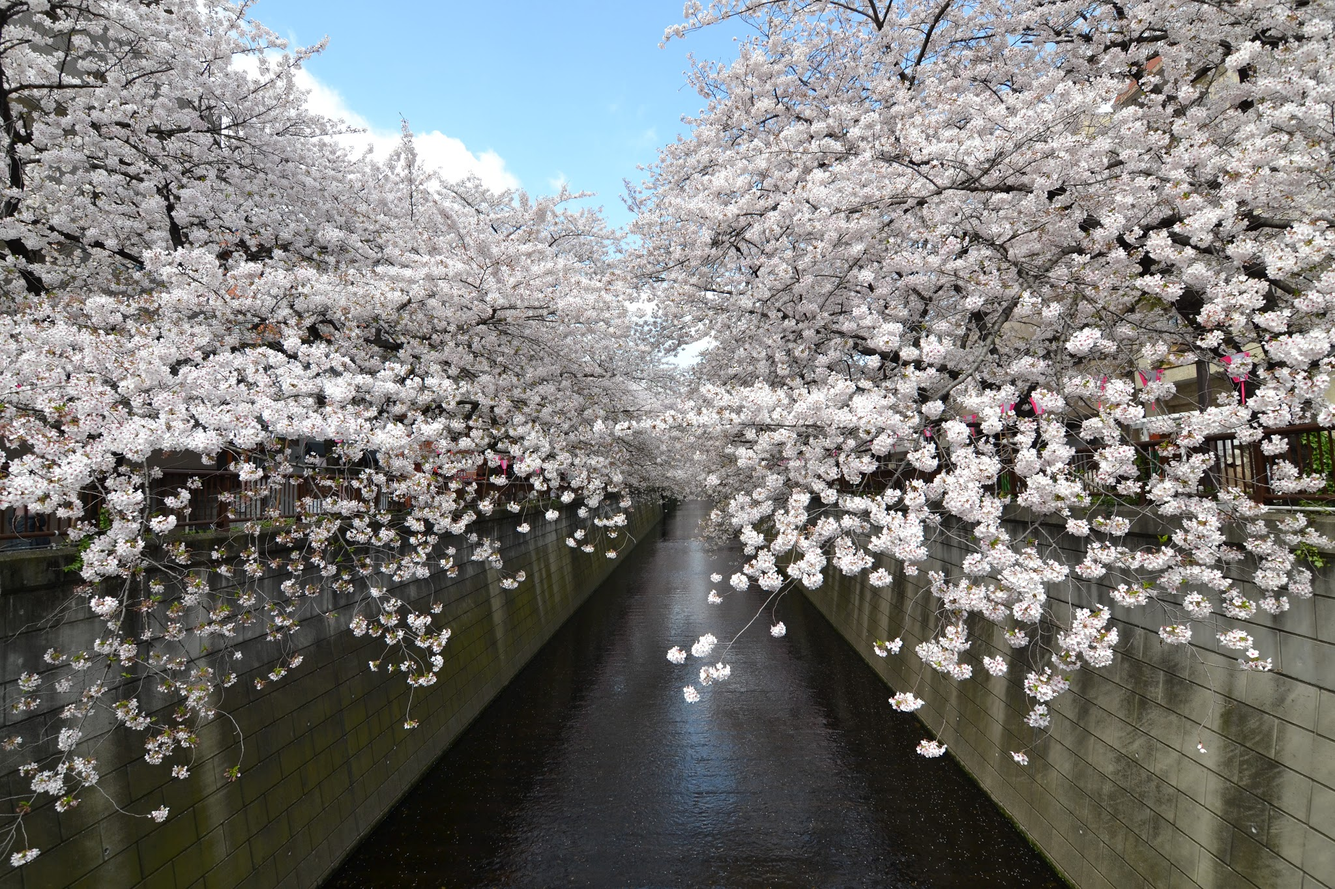
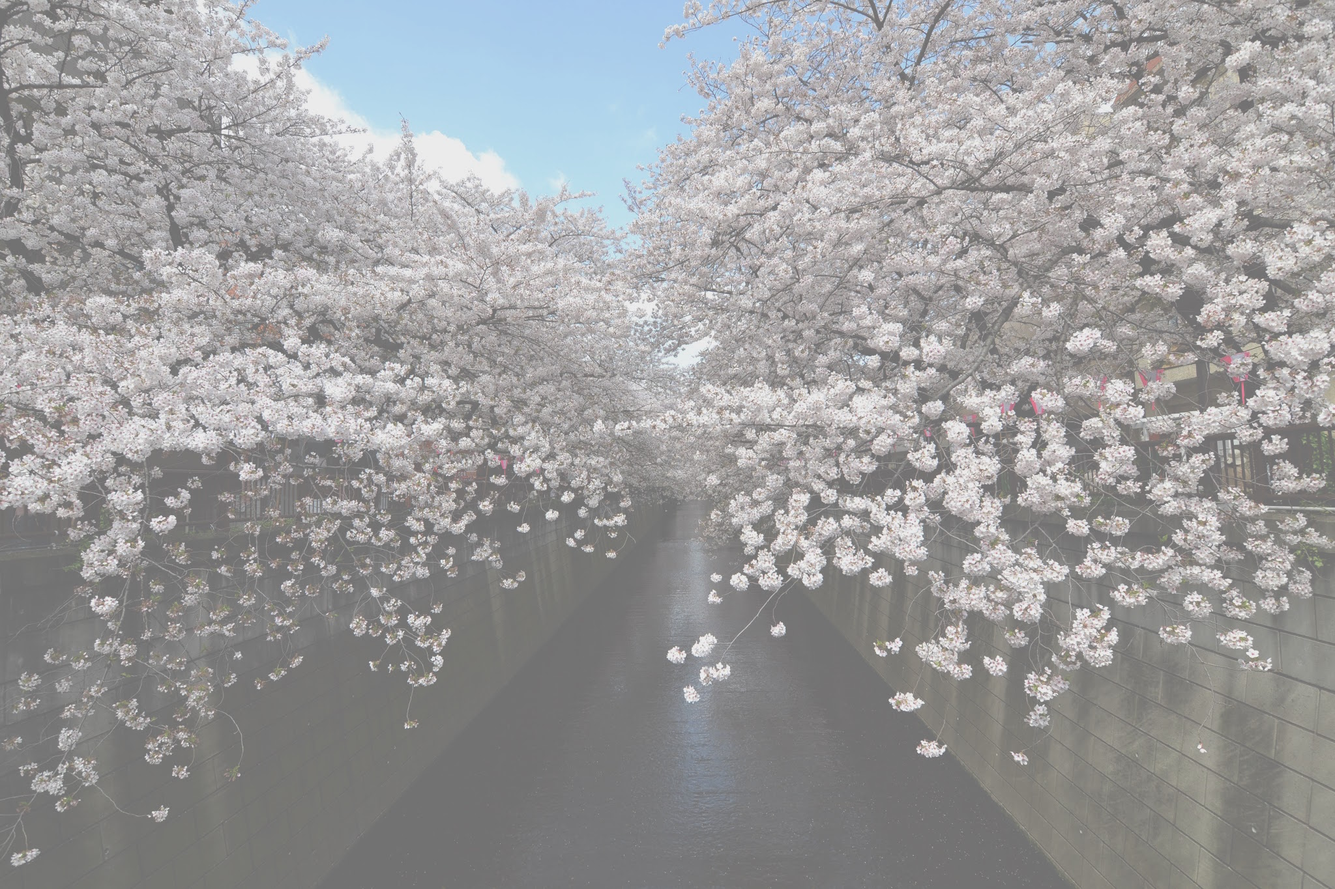
change background image layout

diff --git a/public/css/application.css b/public/css/application.css
@@ -1,18 +1,20 @@
-body {
+/*body {
 	font-family: 'Dosis', serif;
-}
+}*/
 
 #home-text h1 {
-	font-size: 500%;
+	font-size: 400%;
+	color: #000000;
 }
 
 #home-text {
 	position: absolute;
 	top: 30%;
 	left: 40%;
+	color: #6d8487;
 }
 
-#home-image {
+/*#home-image {
 	background: url("../images/blossom.jpg") no-repeat;
 	width: 100vw;
 	height: 100vh;
@@ -20,11 +22,46 @@ body {
 	position: relative;
 	z-index: -1;
 	opacity: 0.5;
+}*/
+
+/* Responsive Full Background Image Using CSS
+ * Tutorial URL: http://sixrevisions.com/css/responsive-background-image/
+*/
+body {
+  /* Location of the image */
+  background: url(/images/blossom.jpg);
+  
+  /* Image is centered vertically and horizontally at all times */
+  background-position: center center;
+  
+  /* Image doesn't repeat */
+  background-repeat: no-repeat;
+  
+  /* Makes the image fixed in the viewport so that it doesn't move when 
+     the content height is greater than the image height */
+  background-attachment: fixed;
+  
+  /* This is what makes the background image rescale based on its container's size */
+  background-size: cover;
+  
+  /* Pick a solid background color that will be displayed while the background image is loading */
+  background-color: #464646;
+
+  
+  /* SHORTHAND CSS NOTATION
+   * background: url(background-photo.jpg) center center cover no-repeat fixed;
+   */
 }
+
+/* For mobile devices */
+@media only screen and (max-width: 767px) {
+  body {
+  }
+	}
 
 
 .field-long {
-	width: 55%;
+	width: 62%;
 }
 
 #map {
@@ -65,3 +102,207 @@ li a:hover {
 	background-color: #c7e7ea;
 }
 
+.no-border {
+  border: none;
+}
+
+.no-outline {
+  outline: none;
+}
+
+.no-bg {
+  background: none;
+}
+
+#logout-button {
+	margin-top: 11.5px;
+	color: white;
+}
+
+#logout-button:hover {
+	background-color: #c7e7ea;
+}
+
+html, body, .container {
+  height: 100%;
+}
+
+/* Reset */
+html, body, h1, p, a, div, section {
+  margin: 0;
+  padding: 0;
+  font-size: 100%;
+  font: inherit;
+}
+
+/* Basic */
+body { 
+  font: 18px/23px "Cantarell", sans-serif;
+  color: #ffffff;
+}
+
+h1 {
+  color: #efecec;
+  text-transform: uppercase;
+  font-size: 40px;
+  line-height: 50px;
+  font-weight: 400;
+  margin-top: 20px;
+}
+
+a {
+  color: #ffffff;
+}
+
+p {
+  margin: 0 0 15px 0;
+}
+
+strong {
+  font-weight: 700;
+}
+
+blockquote {
+  display: block;
+  max-width: 480px;
+  margin: 15px auto;
+  padding: 15px;
+  background-color: rgba(0, 0, 0, 0.3);  
+  color: #e1e1e1;
+  font-family: "Kotta One", serif;
+  font-size: 22px;
+  line-height: 28px;
+}
+
+blockquote cite {
+  display: block;
+  font: 18px/23px "Cantarell", sans-serif;
+  font-size: 16px;
+  margin-top: 16px;
+  color: #cccccc;
+  text-transform: uppercase;
+}
+
+/* Layout */
+
+.navbar {
+  width: 100%;
+  background-color: rgba(0, 0, 0, 0.6);
+  height: 40px;
+  z-index: 9999;
+  position: fixed;
+}
+
+  .inner {
+    position: relative;
+    margin: 0 auto;
+    text-align: center;
+  }
+
+.navbar a {
+  display: inline-block;
+  border: 1px solid #fff;
+  font-size: 14px;
+  line-height: 24px;
+  border-radius: 3px;
+  padding: 2px 15px;
+  text-decoration: none;
+  margin-top: 5px;
+}
+
+.container {
+  display: table;
+  padding-top: 80px;
+  width: 100%;
+}
+
+.content {
+  display: table-cell;
+  vertical-align: middle;
+  text-align: center;
+}
+
+/* Special */
+.sub-title {
+  margin: 50px auto;
+  font-size: 18px;
+  line-height: 23px;
+  text-transform: uppercase;
+}
+
+.button {
+  display: inline-block;
+  padding: 6px 10px;
+  color: #cafaea;
+  border: 1px solid #cafaea;
+  border-radius: 3px;
+  font-weight: 700;
+  line-height: normal;
+  text-decoration: none;
+  text-align: center;
+  text-transform: uppercase;
+}
+
+#more-content {
+  display: none;
+}
+
+/* Media Queries */
+@media only screen and (max-width: 340px) {
+  
+  .container {
+    position: relative;
+    display: block;
+    float: left;
+    vertical-align: baseline;
+    margin: 0 auto;
+    padding: 80px 0 0 0;
+  }
+  
+  #more-content {
+    float: left;
+    margin-right: 10px;
+    
+  }
+  
+  body h1 {
+    font-size: 18px;
+    line-height: 23px;
+  } 
+  
+  .content, blockquote {  
+    display: inline;
+    margin: 0 auto;
+    padding-top: 80px;
+    vertical-align: baseline;
+  }
+
+  blockquote {
+    width: 150px;
+    margin: 15px auto;
+    font-size: 16px;
+    line-height: 21px;
+    background-color: transparent;
+  }
+
+  blockquote cite {
+    font-size: 14px;
+    line-height: 19px;
+  }
+
+  .sub-title {
+    font-size: 14px;
+    line-height: 21px;
+  }
+
+  .button, p {
+    max-width: 150px;
+    margin: 0 auto;
+    font-size: 15px;
+    line-height: 20px;
+  }
+
+  html, body, .container {
+    height: auto;
+  }
+}

diff --git a/public/js/application.js b/public/js/application.js
@@ -1,3 +1,26 @@
 $(document).ready(function() {
-	
+	$('#load-more-content').click(function()
+  {
+    
+    $('#more-content').toggleClass('shown');
+
+    $('#load-more-content').hide();
+
+    if( $('#more-content').hasClass('shown') )
+    {
+      $('#load-more-content').text('Hide content');
+      $('#more-content').fadeIn('slow', function()
+      {
+        $('#load-more-content').fadeIn('slow');
+      });
+    }
+    else
+    {
+      $('#load-more-content').text('Load some content');
+      $('#more-content').fadeOut('slow', function()
+      {
+        $('#load-more-content').fadeIn('slow');
+      });
+    }
+  });
 });

diff --git a/app/controllers/users_controller.rb b/app/controllers/users_controller.rb
@@ -18,3 +18,7 @@ post '/users' do
 		erb :'users/new'
 	end
 end
+
+get '/users/:user_id' do
+	
+end
